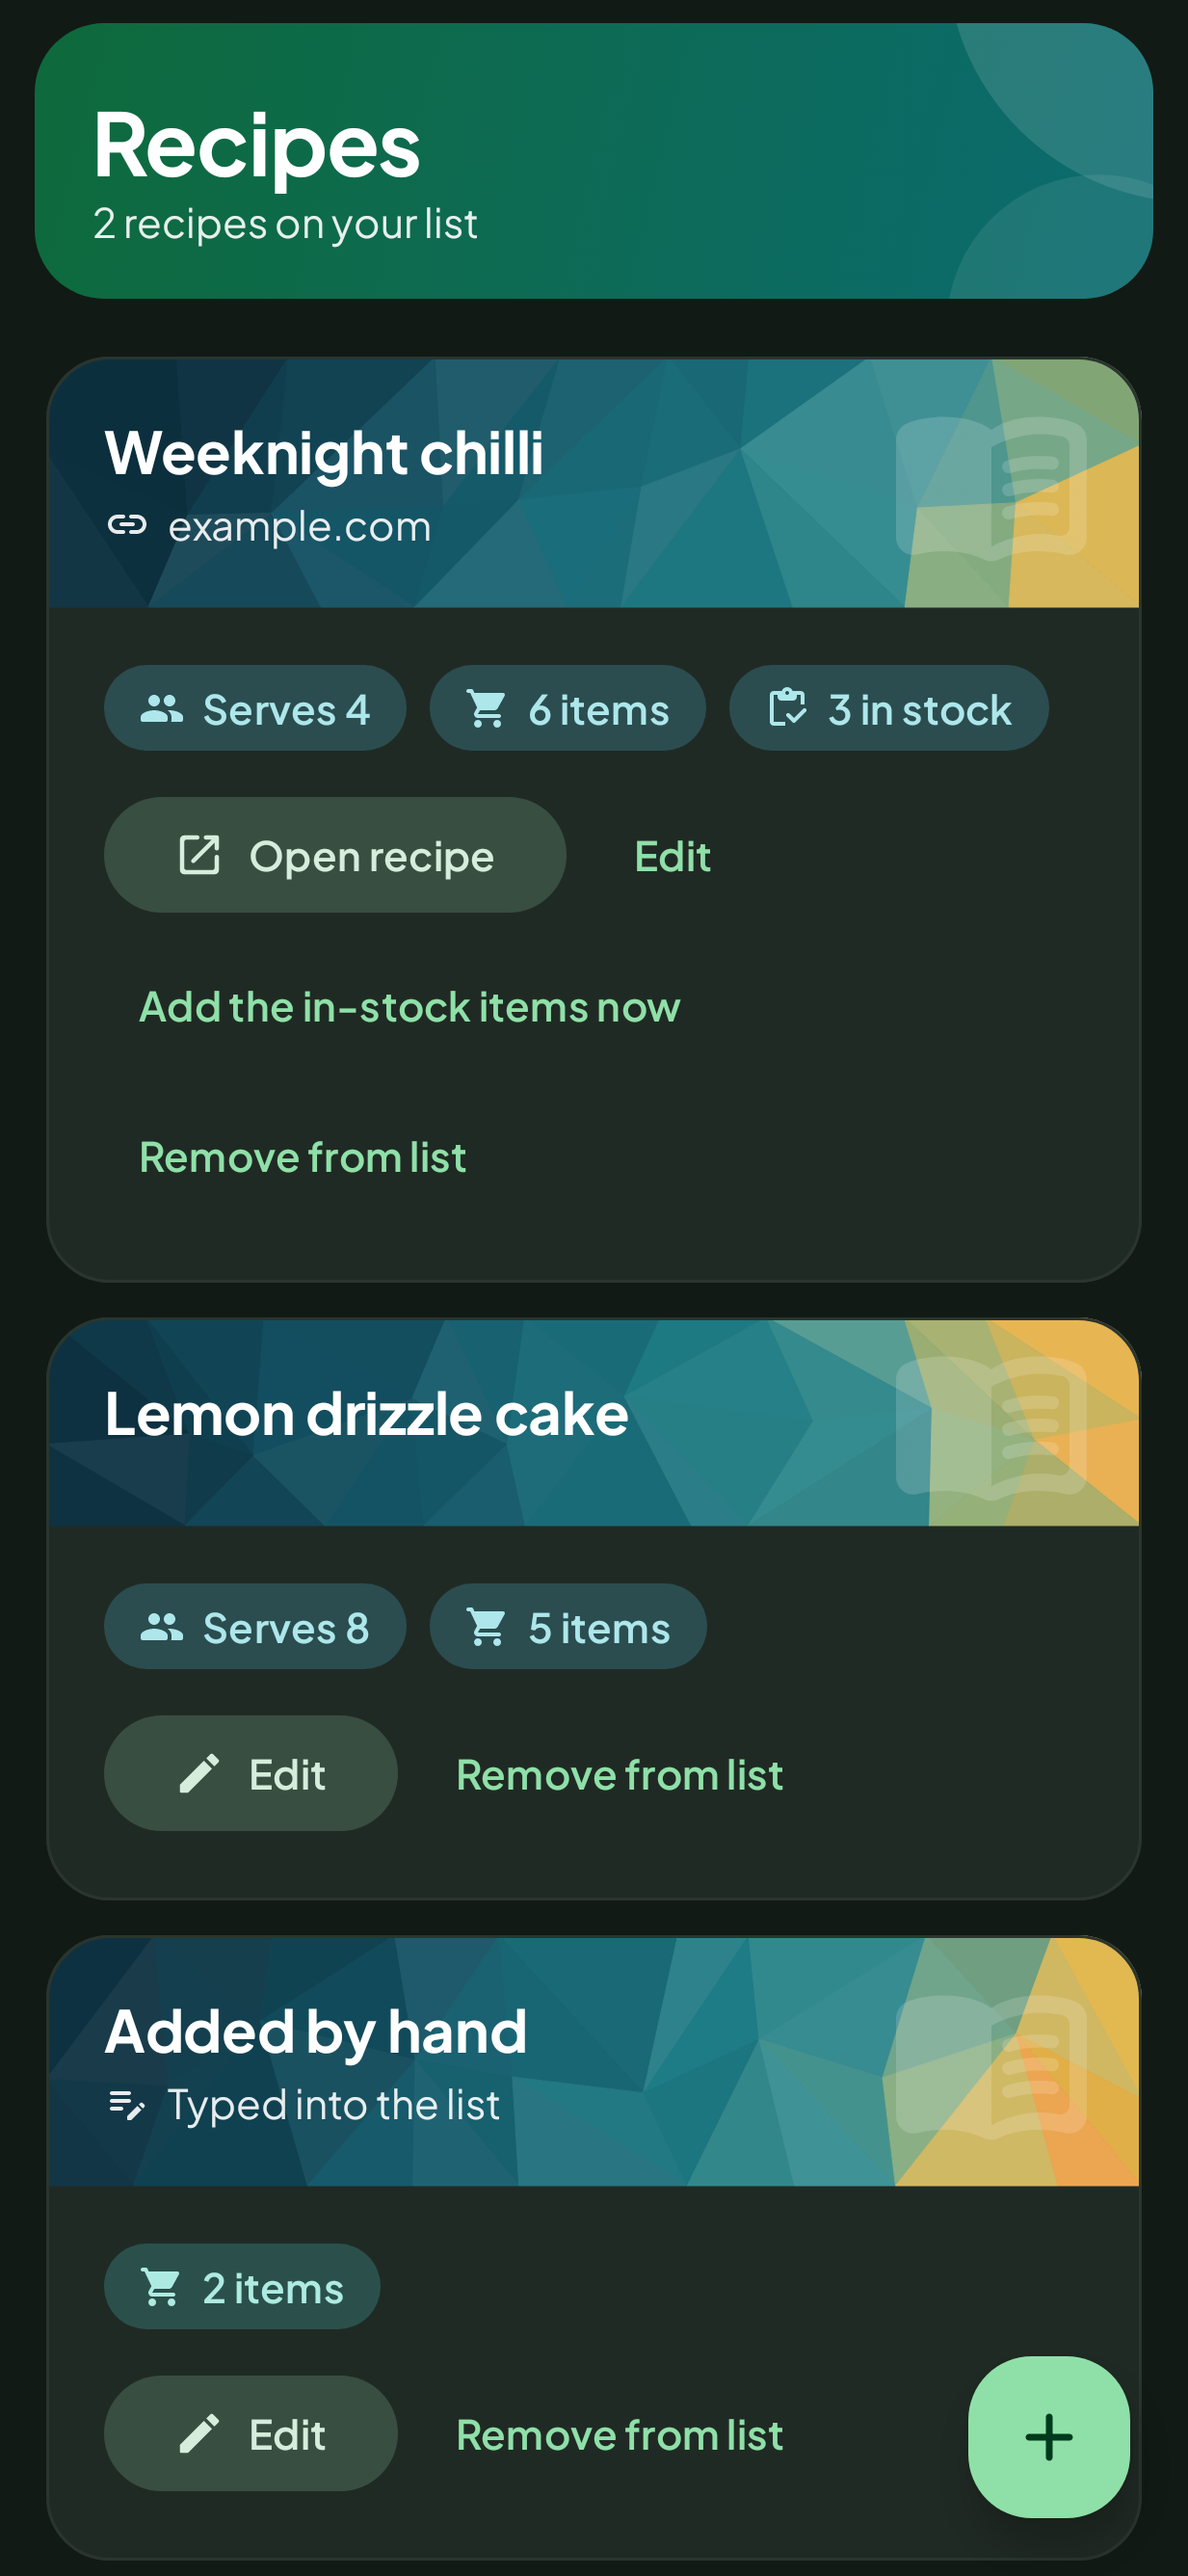
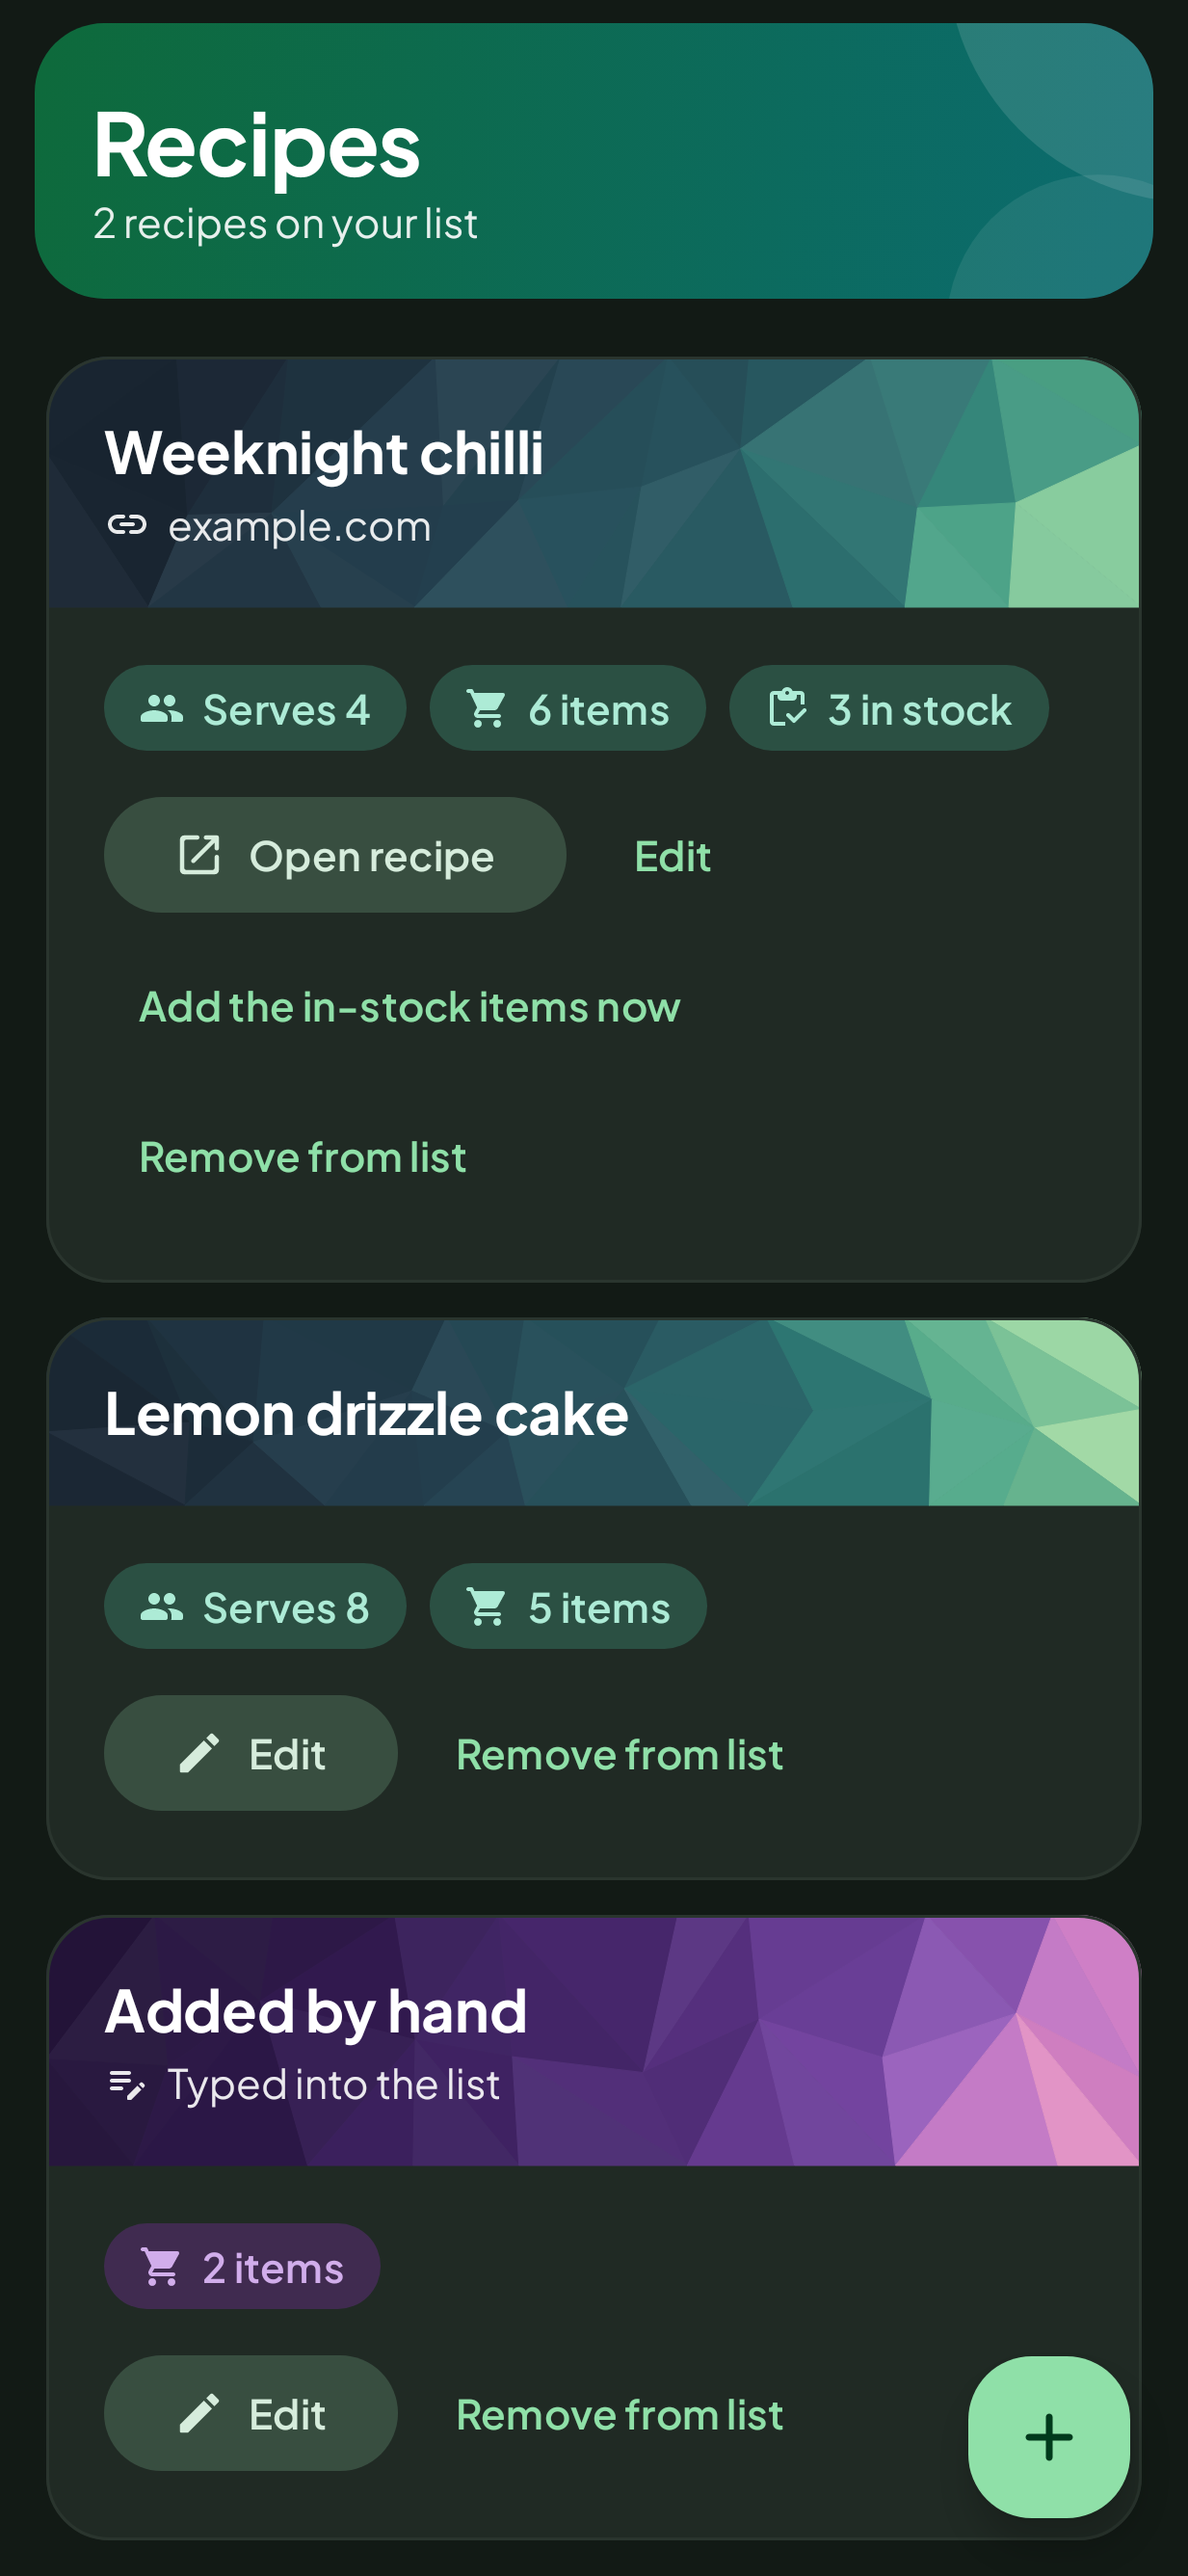
[feature] Recipe headers: drop the book watermark, eight palettes
Each recipe now picks one of eight low-poly palettes by its title (the style
guide's teal-to-orange plus indigo, forest, navy, plum, burgundy, slate,
aubergine); its chips take the palette's hue. The faint book icon is gone.

Claude-Session: https://claude.ai/code/session_016z2Qp5Lw5mkgJm6Jzuit5a

diff --git a/android/app/src/main/java/com/robert4lyf/hypershop/ui/theme/LowPoly.kt b/android/app/src/main/java/com/robert4lyf/hypershop/ui/theme/LowPoly.kt
@@ -13,18 +13,19 @@ import kotlin.math.sin
 import kotlin.random.Random
 
 /**
- * A recipe header's background: a low-poly mosaic running deep teal → teal →
- * sage → gold → orange (the style guide in docs/design/recipe-header.jpg).
+ * A recipe header's background: a low-poly mosaic in the manner of the style
+ * guide (docs/design/recipe-header.jpg), in one of several palettes.
  *
  * Every recipe gets its own, seeded by [seed] (its title) so it never changes:
- * where the facets fall, which way each cell is split, a slight tilt of the
+ * the palette, where the facets fall, which way each cell is split, a slight tilt of the
  * colour run, how far the warm end reaches, and a little light and shade per
- * facet. The left side, under the title, always stays in the dark teals so the
- * white text keeps its contrast; the gold and orange only reach the far right.
+ * facet. The left side, under the title, always stays in the dark end so the
+ * white text keeps its contrast; the bright end only reaches the far right.
  */
 fun Modifier.lowPoly(seed: String): Modifier =
     drawWithCache {
         val rnd = Random(seed.hashCode())
+        val stops = lowPolyPalette(seed).stops
         val cell = 44.dp.toPx()
         val cols = ceil(size.width / cell).toInt().coerceAtLeast(2)
         val rows = ceil(size.height / cell).toInt().coerceAtLeast(2)
@@ -59,7 +60,7 @@ fun Modifier.lowPoly(seed: String): Modifier =
                     val cy = (t[0].y + t[1].y + t[2].y) / 3f / size.height
                     val along = (cx * dirX + (cy - 0.5f) * dirY * 0.6f - reach + (rnd.nextFloat() - 0.5f) * 0.06f).coerceIn(0f, 1f)
                     val shade = (rnd.nextFloat() - 0.5f) * 0.10f
-                    val base = sample(along)
+                    val base = sample(stops, along)
                     val colour = if (shade >= 0) lerp(base, Color.White, shade) else lerp(base, Color.Black, -shade)
                     val path =
                         Path().apply {
@@ -81,24 +82,51 @@ fun Modifier.lowPoly(seed: String): Modifier =
         }
     }
 
-/** The run, as (position, colour) stops: the warm end only past ~70% across. */
-private val STOPS =
-    listOf(
-        0.00f to Color(0xFF0D3140),
-        0.30f to Color(0xFF15596A),
-        0.55f to Color(0xFF1F7E88),
-        0.70f to Color(0xFF3C9293),
-        0.80f to Color(0xFF8DAE7A),
-        0.89f to Color(0xFFE6B84C),
-        1.00f to Color(0xFFEE8540),
-    )
+/** One header palette: dark at 0 (under the title), bright at 1, and [hue] for the recipe's chips. */
+internal class LowPolyPalette(
+    val hue: Float,
+    val stops: List<Pair<Float, Color>>,
+)
 
-private fun sample(t: Float): Color {
-    val i = STOPS.indexOfLast { it.first <= t }.coerceIn(0, STOPS.size - 2)
-    val (p0, c0) = STOPS[i]
-    val (p1, c1) = STOPS[i + 1]
-    return lerp(c0, c1, ((t - p0) / (p1 - p0)).coerceIn(0f, 1f))
+private fun palette(
+    hue: Float,
+    vararg colours: Long,
+): LowPolyPalette {
+    // Dark half kept long so white text on the left keeps its contrast.
+    val at = floatArrayOf(0.00f, 0.30f, 0.55f, 0.70f, 0.80f, 0.89f, 1.00f)
+    return LowPolyPalette(hue, colours.mapIndexed { i, c -> at[i] to Color(c) })
 }
 
-/** Hues from the same run, for a recipe's chips and icons: teal, sage, gold, orange. */
-internal val LOW_POLY_HUES = floatArrayOf(192f, 184f, 172f, 98f, 42f, 24f)
+/** All in the style guide's manner: a deep base running into a warm or bright end. */
+private val PALETTES =
+    listOf(
+        // The style guide: deep teal, sage, gold, orange.
+        palette(184f, 0xFF0D3140, 0xFF15596A, 0xFF1F7E88, 0xFF3C9293, 0xFF8DAE7A, 0xFFE6B84C, 0xFFEE8540),
+        // Indigo into magenta and peach.
+        palette(300f, 0xFF1B1840, 0xFF2E2A6B, 0xFF4B3A8F, 0xFF7A4597, 0xFFB5528E, 0xFFE57A78, 0xFFF4A96A),
+        // Forest into lime and yellow.
+        palette(110f, 0xFF10301F, 0xFF1A5232, 0xFF2A7443, 0xFF4A8C45, 0xFF8DB24A, 0xFFD3CF4E, 0xFFF2D35A),
+        // Navy into sky and coral.
+        palette(210f, 0xFF0E2140, 0xFF173B6B, 0xFF225C92, 0xFF3D7FB0, 0xFF7FA9C4, 0xFFF0A08A, 0xFFF0715E),
+        // Plum into rose and gold.
+        palette(330f, 0xFF2E1230, 0xFF4E1D4C, 0xFF73305F, 0xFF994466, 0xFFC86A6A, 0xFFE8A35A, 0xFFF2C94C),
+        // Burgundy into red and amber.
+        palette(12f, 0xFF35111A, 0xFF5A1A24, 0xFF84262C, 0xFFA83A2E, 0xFFD0602F, 0xFFEB9338, 0xFFF5BE4A),
+        // Slate into teal and mint.
+        palette(160f, 0xFF1A2633, 0xFF24404F, 0xFF2B6068, 0xFF2F8078, 0xFF4FA88A, 0xFF8FD1A0, 0xFFD5EEA8),
+        // Aubergine into violet and pink.
+        palette(275f, 0xFF231338, 0xFF3A1F5C, 0xFF56307F, 0xFF7243A0, 0xFF9B5FBF, 0xFFD27FC6, 0xFFF4A3C0),
+    )
+
+/** The palette for a recipe, picked by its title so it never changes. */
+internal fun lowPolyPalette(seed: String): LowPolyPalette = PALETTES[Math.floorMod(seed.hashCode() * 31 + 7, PALETTES.size)]
+
+private fun sample(
+    stops: List<Pair<Float, Color>>,
+    t: Float,
+): Color {
+    val i = stops.indexOfLast { it.first <= t }.coerceIn(0, stops.size - 2)
+    val (p0, c0) = stops[i]
+    val (p1, c1) = stops[i + 1]
+    return lerp(c0, c1, ((t - p0) / (p1 - p0)).coerceIn(0f, 1f))
+}

diff --git a/android/app/src/main/java/com/robert4lyf/hypershop/ui/recipes/RecipesRoute.kt b/android/app/src/main/java/com/robert4lyf/hypershop/ui/recipes/RecipesRoute.kt
@@ -460,13 +460,7 @@ private fun UseCard(
         Column {
             // The recipe's own colour band: the same hue as its review screen.
             Box(Modifier.fillMaxWidth().lowPoly(use.title)) {
-                Icon(
-                    Icons.AutoMirrored.Rounded.MenuBook,
-                    contentDescription = null,
-                    tint = Color.White.copy(alpha = 0.16f),
-                    modifier = Modifier.align(Alignment.CenterEnd).padding(end = 16.dp).size(72.dp),
-                )
-                Column(Modifier.padding(20.dp).padding(end = 56.dp), verticalArrangement = Arrangement.spacedBy(4.dp)) {
+                Column(Modifier.padding(20.dp), verticalArrangement = Arrangement.spacedBy(4.dp)) {
                     Text(use.title, style = MaterialTheme.typography.titleLarge, color = Brand.OnHero)
                     val site = url?.let { siteName(it) }
                     val book = use.bookRef

diff --git a/android/app/src/main/java/com/robert4lyf/hypershop/ui/theme/Brand.kt b/android/app/src/main/java/com/robert4lyf/hypershop/ui/theme/Brand.kt
@@ -24,7 +24,7 @@ object Brand {
     val WarmCall = Brush.linearGradient(listOf(Color(0xFFC4451F), Color(0xFFBD3A64)))
 
     /** A recipe's hue for its chips and icons, from its header's palette and picked by its title, so it stays the same. */
-    fun recipeHue(seed: String): Float = LOW_POLY_HUES[(seed.hashCode() % LOW_POLY_HUES.size + LOW_POLY_HUES.size) % LOW_POLY_HUES.size]
+    fun recipeHue(seed: String): Float = lowPolyPalette(seed).hue
 
     /** A soft tint of [hue] for chips on a card. */
     fun tint(
